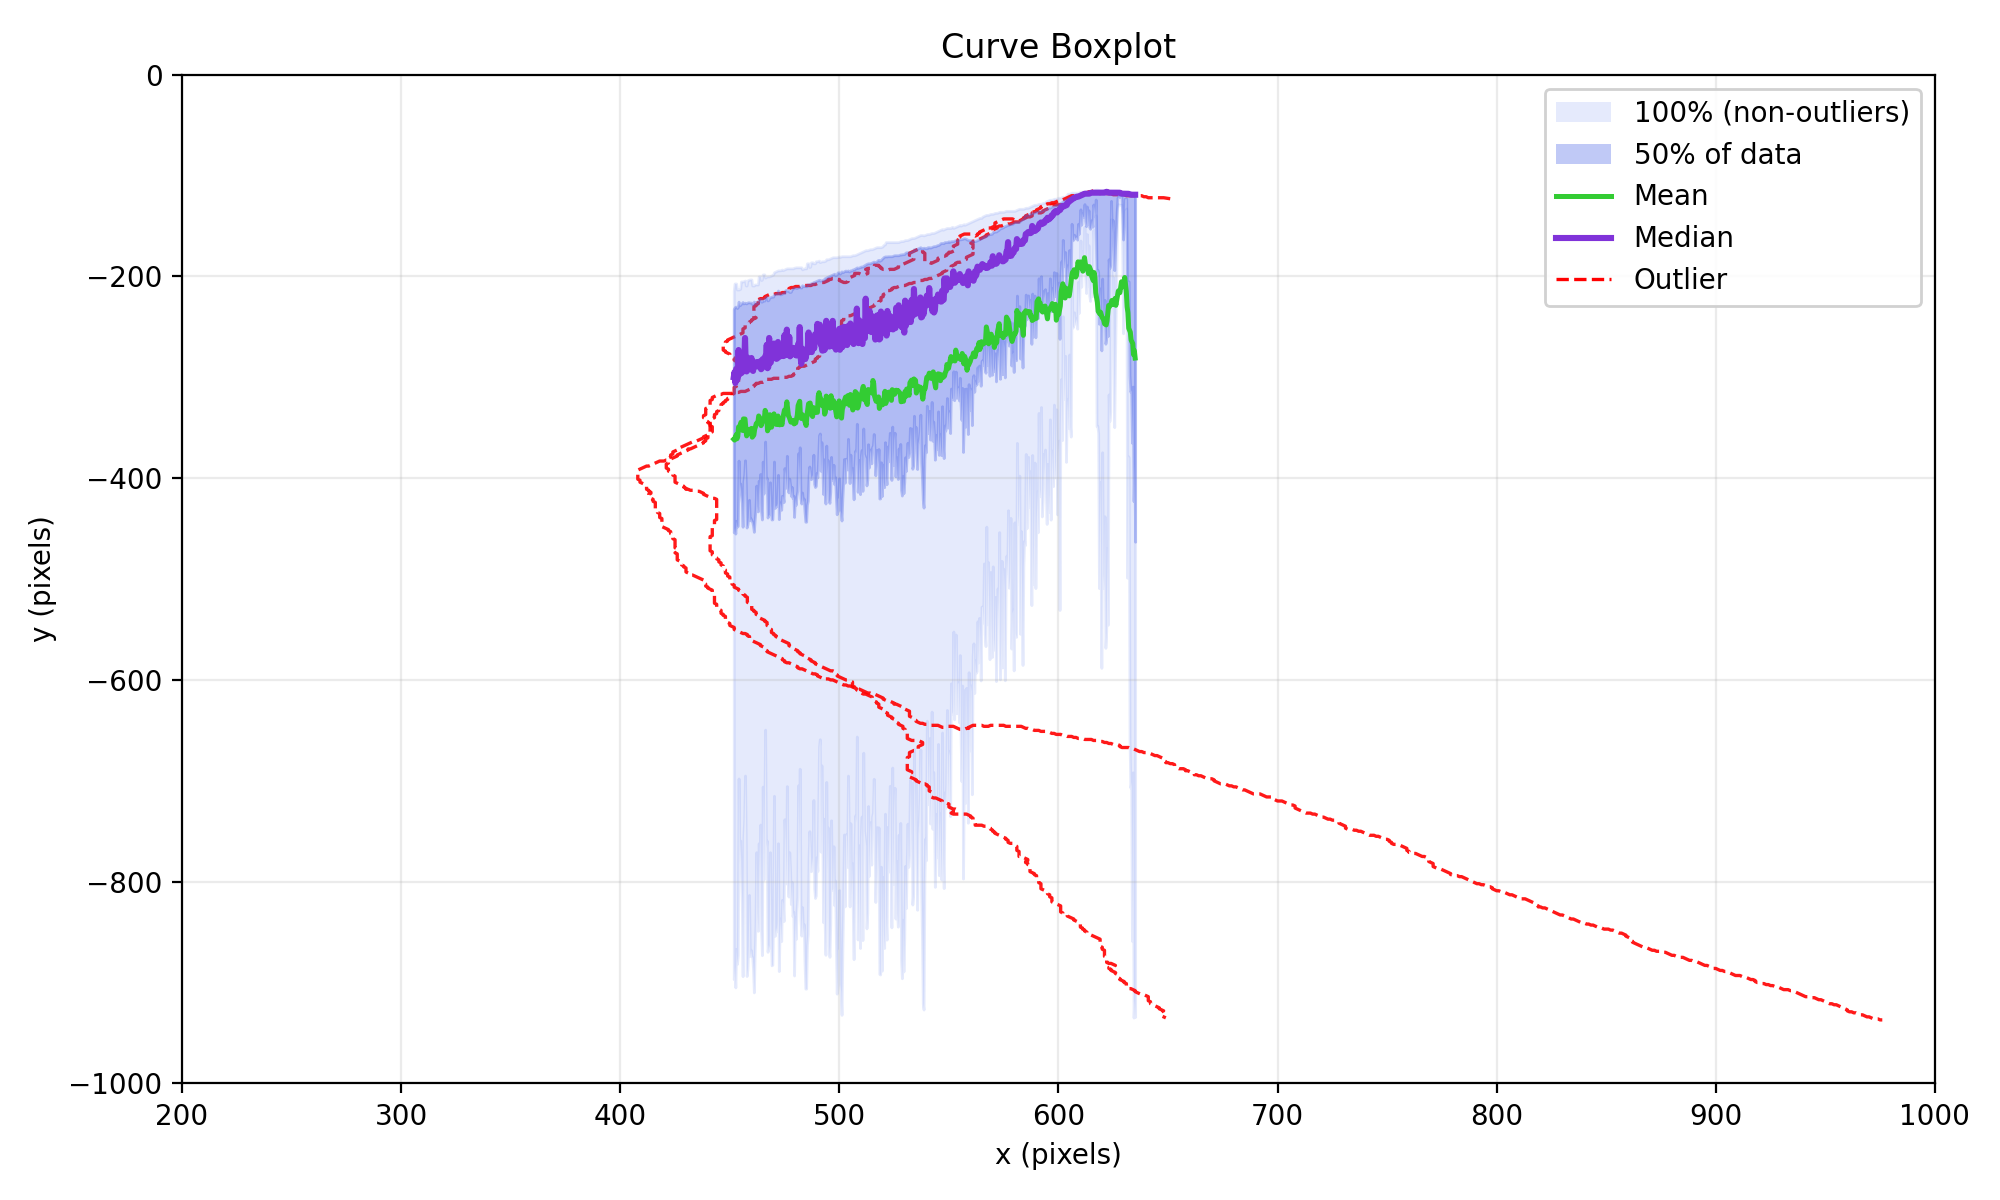
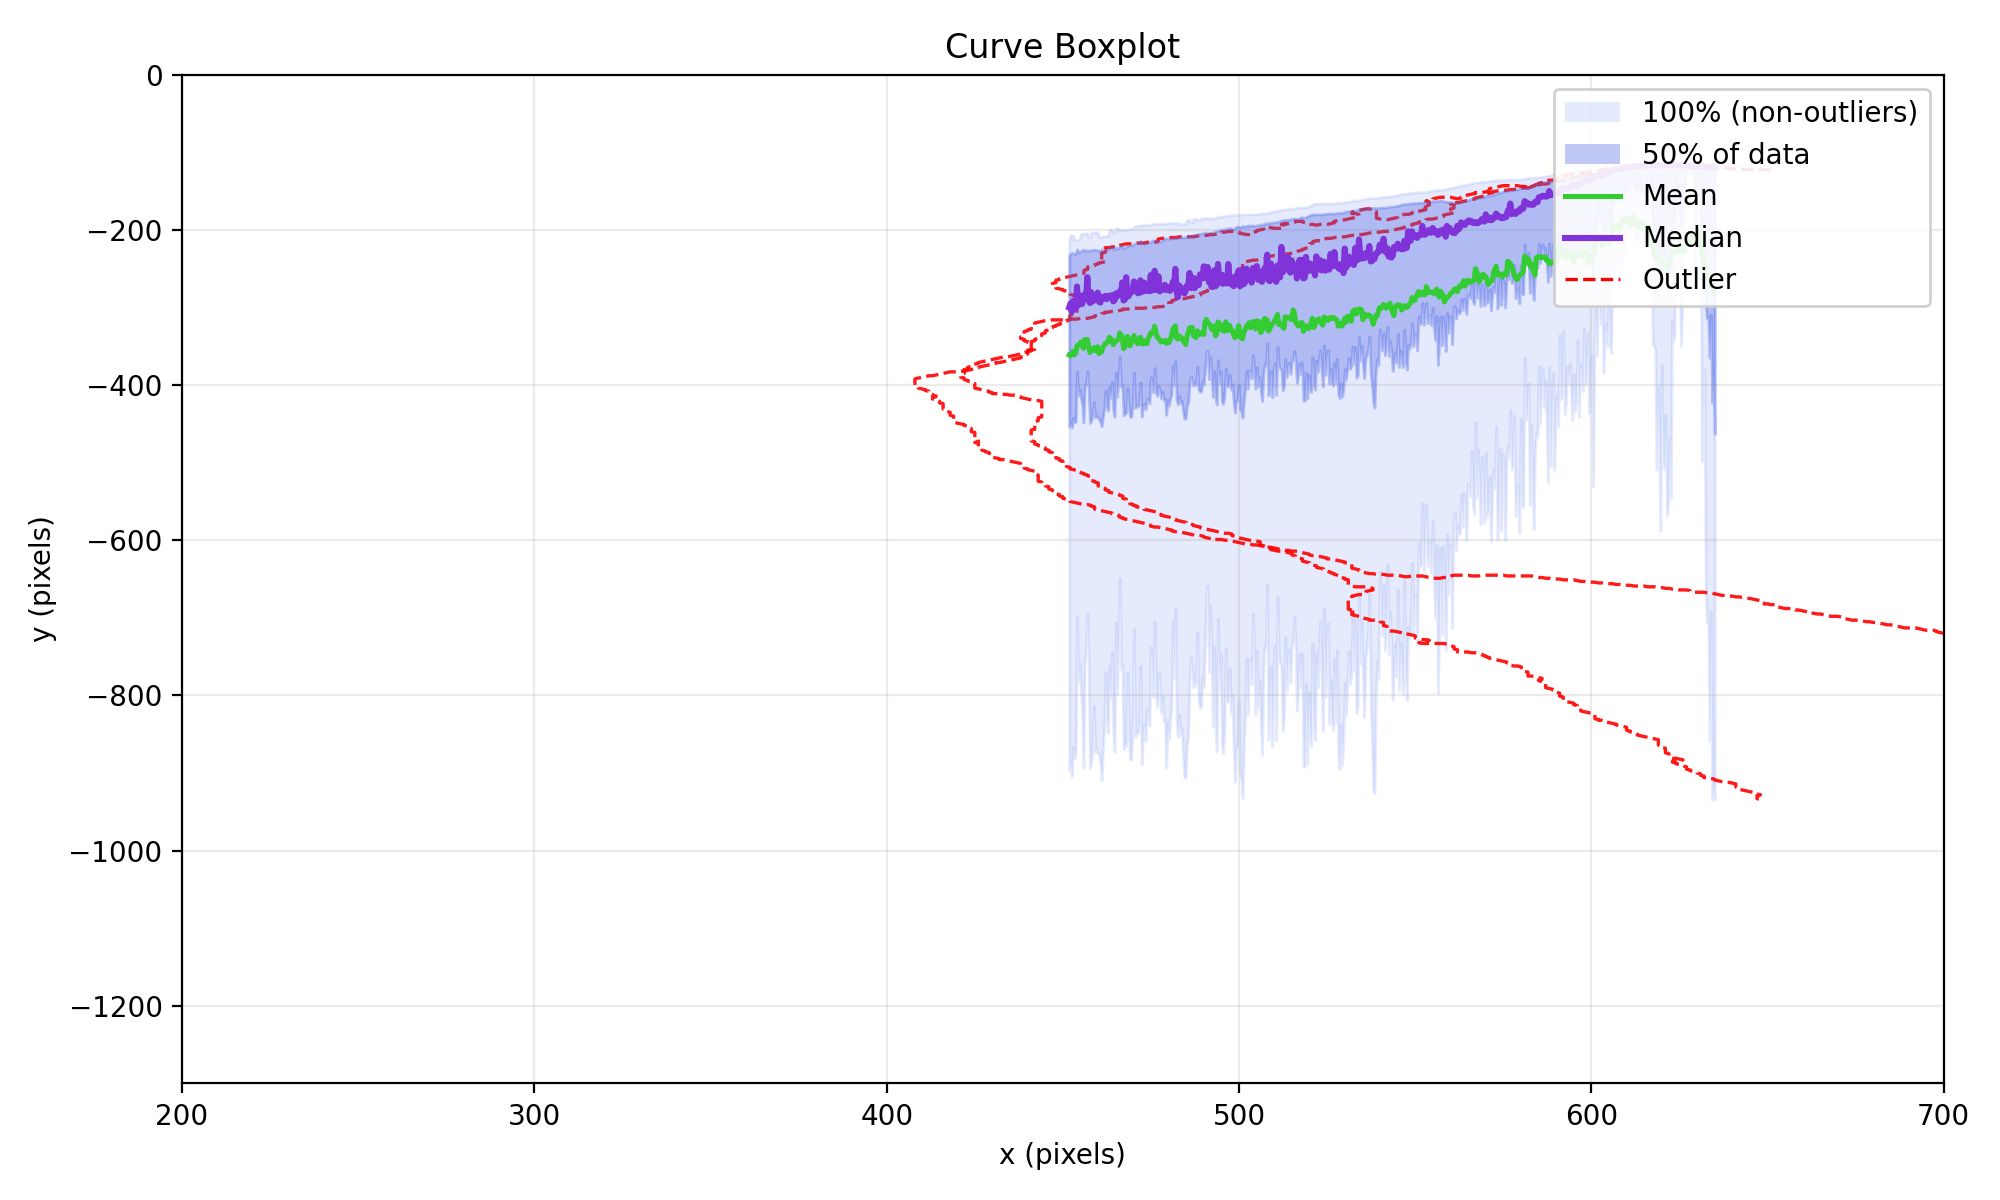
d

diff --git a/save_predict/shoreline_jsons/csv/spaghetti_plot.py b/save_predict/shoreline_jsons/csv/spaghetti_plot.py
@@ -429,8 +429,8 @@ def main():
     ap.add_argument("--alpha", type=float, default=0.35, help="Alpha transparency for curves")
     ap.add_argument("--cmap", default="tab20", help="Matplotlib colormap name to cycle through for curves")
     # Fixed default axes so all plots share the same view; override if needed
-    ap.add_argument("--xlim", type=float, nargs=2, default=[200.0, 1000.0], help="x-limits: xmin xmax (default 0 1300)")
-    ap.add_argument("--ylim", type=float, nargs=2, default=[ -1000.0, 0.0], help="y-limits: ymin ymax (default 0 -1000; inverted)")
+    ap.add_argument("--xlim", type=float, nargs=2, default=[200.0, 700.0], help="x-limits: xmin xmax (default 0 1300)")
+    ap.add_argument("--ylim", type=float, nargs=2, default=[ -1300.0, 0.0], help="y-limits: ymin ymax (default 0 -1000; inverted)")
     ap.add_argument("--require_vertex_index", action="store_true", help="Skip files lacking vertex_index to avoid spurious connectors.")
     ap.add_argument("--max_jump_dist", type=float, default=25, help="If set, split a curve when adjacent vertices are farther than this (pixels).")
     ap.add_argument("--report_top_jumps", type=int, default=10, help="Print the top N curves by largest adjacent-vertex jump distance.")
